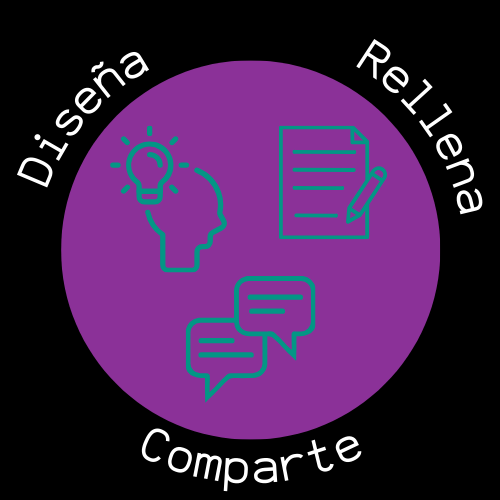
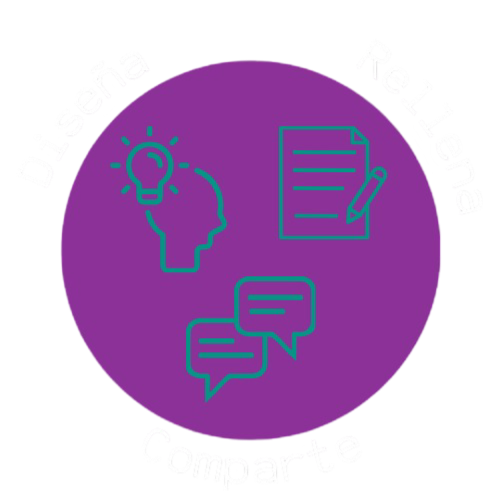
description circles fixed

diff --git a/src/partials/landing.html b/src/partials/landing.html
@@ -6,11 +6,15 @@
 
 
   <section class="landing_desc">
-  <load src="/partials/articles.html" imgUrl="/images/CircleMobile.png" imgDesc="Círculo con tres iconos y las palabras diseña rellena y comparte" circleTitle="skhfbjsd"> 
-  <load src="/partials/articles.html" imgUrl="" imgDesc="" circleTitle="Diseña">
-  <load src="/partials/articles.html" imgUrl="" imgDesc="" circleTitle="Rellena"> 
-  <load src="/partials/articles.html" imgUrl="" imgDesc="" circleTitle="Comparte"> 
-  
+
+    <load src="/partials/articles.html" articleClass="landing_desc-circle" imgUrl="/images/CircleMobile.png" imgDesc="Círculo con tres iconos y las palabras diseña rellena y comparte" titleClass="hidden" />
+    
+    <load src="/partials/articles.html" articleClass="hidden" imgUrl="/images/Diseña.png" imgDesc="Círculo con un icono de una cabeza de perfil y una bombilla en su parte trasera" circleTitle="Diseña" />
+      
+    <load src="/partials/articles.html" articleClass="hidden" imgUrl="/images/Rellena.png" imgDesc="Círculo con un icono de una hoja con líneas y un lápiz" circleTitle="Rellena" /> 
+
+    <load src="/partials/articles.html" articleClass="hidden" imgUrl="/images/Comparte.png" imgDesc="Círculo con un icono de dos bocadillos rellenos de líneas imitando una conversación" circleTitle="Comparte" /> 
+        
   </section>
 
   <div class="landing_button">
@@ -18,3 +22,5 @@
   </div>
   
 </main>
+
+

diff --git a/src/scss/layout/_landing.scss b/src/scss/layout/_landing.scss
@@ -1,3 +1,8 @@
+
+.hidden{
+  display: none;
+}
+
 .landing{
   height: 80vh;
   background: linear-gradient($color-complementary, $color-main);
@@ -7,12 +12,6 @@
   align-items: center;
   flex-direction: column;
   gap: 3rem;
-
-  &_desc{
-    width: 100%;
-    height: 30vh;
-    background-color: red;
-  }
 
   &_title{
     font-family: $font-main;

diff --git a/src/partials/articles.html b/src/partials/articles.html
@@ -1,7 +1,7 @@
-<article class="npm star">
+<article class="{=$articleClass}">
 
     <img src="{=$imgUrl}" alt="{=$imgDesc}">
 
-    <p>{=$circleTitle}</p>
+    <p class="{=$titleClass}">{=$circleTitle}</p>
 
 </article>

diff --git a/src/scss/components/_articles.scss b/src/scss/components/_articles.scss
@@ -1,5 +1,7 @@
 .landing_desc-circle{
-    width: 100%;
-    height: 10vh;
-    background-color: black;
+    text-align: center;
+
+    & img{
+        width: 60%;
+    }
 }
